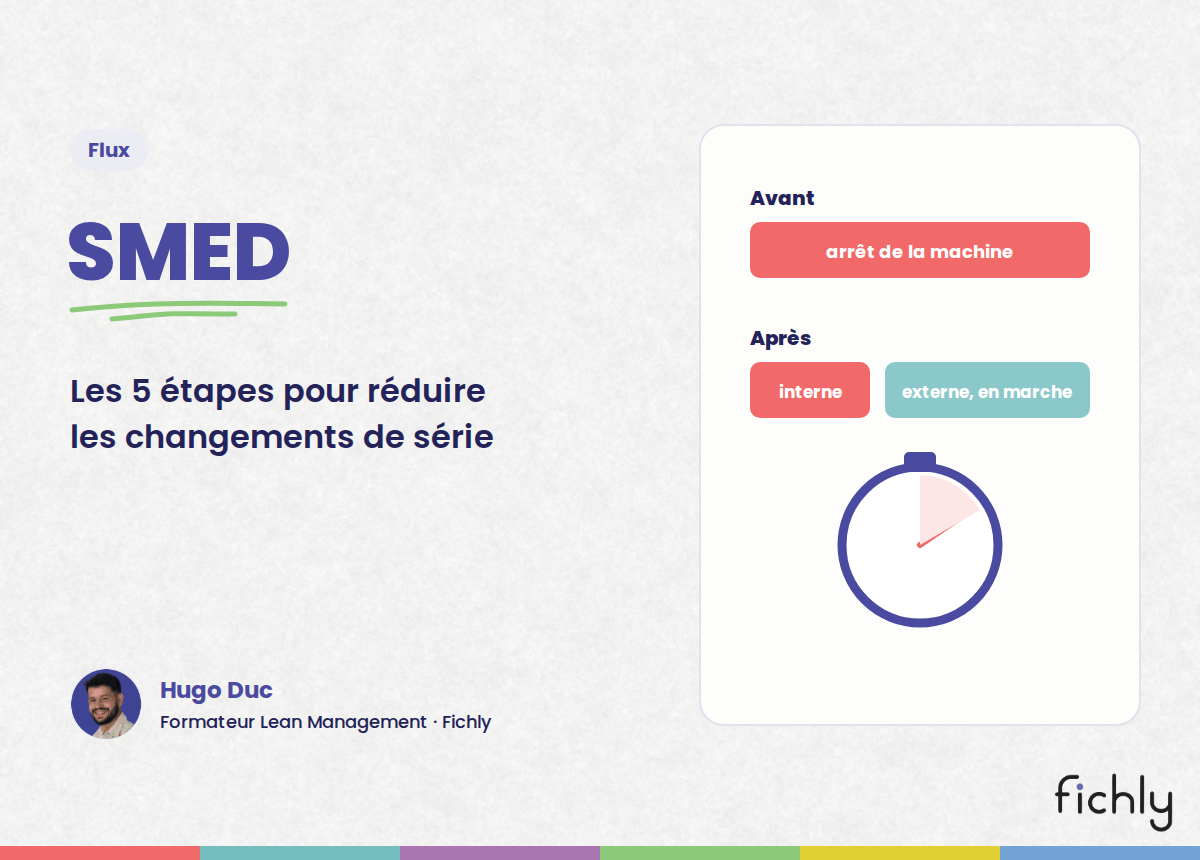
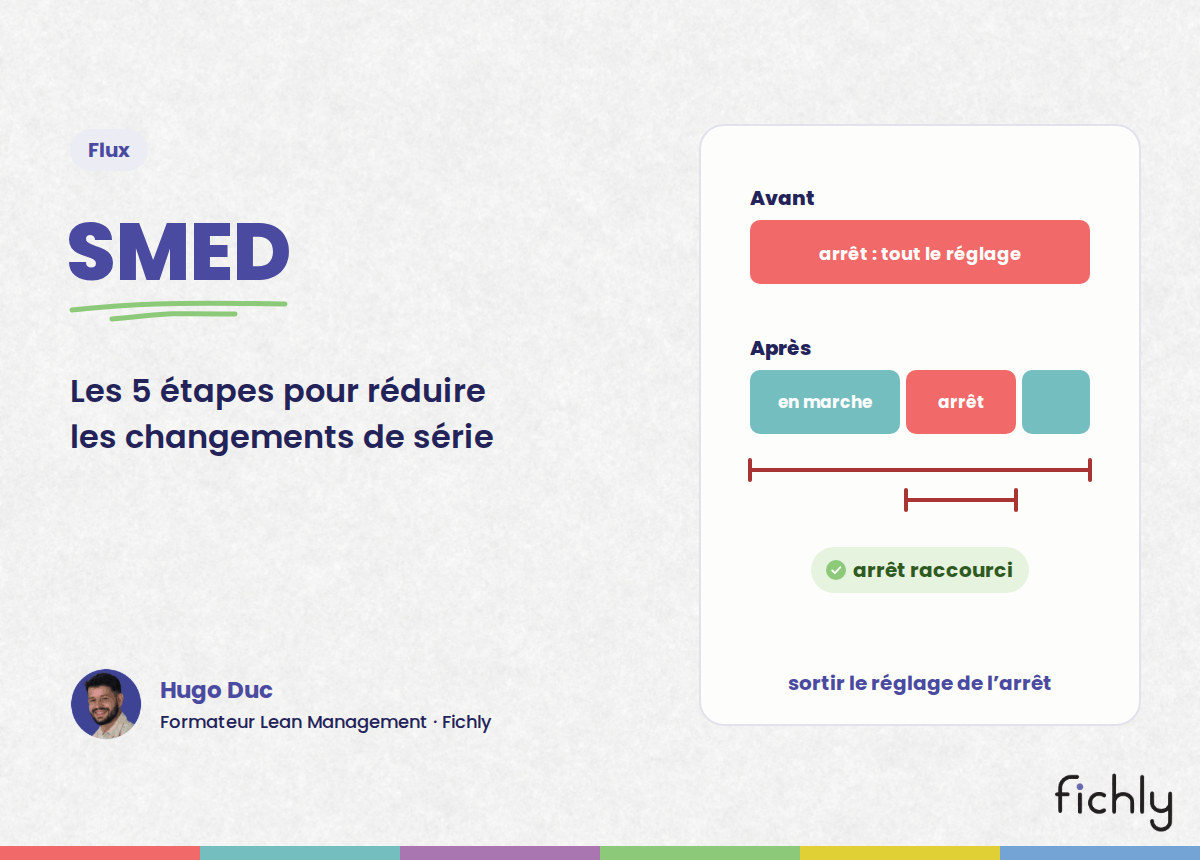
Couvertures : schémas repris (5S, TRS, SMED, TRS-TRG-TRE, maintenance, financement, métier) et légendes
Claude-Session: https://claude.ai/code/session_01Rdiqrwp9vyf6SMqf88o7NK

Changed region(s): [[0.6167, 0.3628, 0.925, 0.7256], [0.6167, 0.2721, 0.925, 0.3326], [0.6475, 0.786, 0.8942, 0.8163]]

diff --git a/articles-v2/couvertures/couvertures.js b/articles-v2/couvertures/couvertures.js
@@ -163,23 +163,39 @@
       text(p, 1090, base - tk - 10, 'takt', { size: 17, weight: 800, fill: C.blue, anchor: 'end' });
     },
     '5s'(p) {
-      const L = ['Trier', 'Ranger', 'Nettoyer', 'Standardiser', 'Faire durer'];
-      const cols = [C.red, C.teal, C.violet, C.green, C.lightBlue];
-      L.forEach((l, i) => {
-        const y = 175 + i * 92;
-        rect(p, 745, y, 350, 72, C.white, { stroke: C.line, 'stroke-width': 2, rx: 16 });
-        el('circle', { cx: 785, cy: y + 36, r: 22, fill: cols[i] }, p);
-        text(p, 785, y + 45, 'S', { size: 24, weight: 800, fill: C.white, anchor: 'middle' });
-        text(p, 825, y + 45, `${i + 1}. ${l}`, { size: 24, weight: 700, fill: C.ink });
+      // Tableau d'ombres : l'outil manquant se voit d'un regard
+      rect(p, 745, 175, 350, 300, C.pLav, { rx: 14 });
+      const shadow = { fill: C.white, stroke: C.ink, 'stroke-width': 2, 'stroke-dasharray': '6 5' };
+      const hammer = (x, o) => { rect(p, x - 8, 250, 16, 190, o.fill, { ...o, rx: 6 }); rect(p, x - 38, 205, 76, 44, o.fill, { ...o, rx: 8 }); };
+      const driver = (x, o) => { rect(p, x - 15, 205, 30, 92, o.fill, { ...o, rx: 12 }); rect(p, x - 5, 297, 10, 145, o.fill, { ...o, rx: 4 }); };
+      const wrench = (x, o) => { rect(p, x - 11, 250, 22, 190, o.fill, { ...o, rx: 8 }); el('circle', { cx: x, cy: 232, r: 30, ...o }, p); };
+      hammer(800, shadow); driver(920, shadow); wrench(1040, shadow);
+      hammer(800, { fill: C.blue }); wrench(1040, { fill: C.blue });
+      driver(920, { fill: 'none', stroke: C.red, 'stroke-width': 3, 'stroke-dasharray': '6 5' });
+      G.cross(p, 958, 215, 16);
+      ['Trier', 'Ranger', 'Nettoyer', 'Standardiser', 'Tenir'].forEach((l, i) => {
+        const x = 770 + i * 75;
+        el('circle', { cx: x, cy: 535, r: 22, fill: [C.red, C.teal, C.violet, C.green, C.lightBlue][i] }, p);
+        text(p, x, 543, 'S', { size: 22, weight: 800, fill: C.white, anchor: 'middle' });
+        text(p, x, i % 2 ? 604 : 582, l, { size: 14, weight: 700, fill: C.ink, anchor: 'middle' });
       });
-      text(p, CX, 690, 'l’anomalie se voit', { size: 20, weight: 700, fill: C.blue, anchor: 'middle' });
+      text(p, CX, 690, 'l’outil manquant se voit', { size: 20, weight: 700, fill: C.blue, anchor: 'middle' });
     },
     trs(p) {
-      const B = [['Temps d’ouverture', 340, C.line, C.ink], ['Disponibilité', 290, C.teal, C.white], ['Performance', 240, C.lightBlue, C.white], ['Qualité', 200, C.violet, C.white]];
-      B.forEach(([l, w, f, fg], i) => { rect(p, 750, 190 + i * 88, w, 62, f, { rx: 12 }); text(p, 768, 229 + i * 88, l, { size: 20, weight: 700, fill: fg }); });
-      arrow(p, 'M 960 560 L 960 585', C.blue); head(p, 960, 590, 90, C.blue);
-      rect(p, 750, 600, 200, 70, C.blue, { rx: 14 });
-      text(p, 850, 646, 'TRS', { size: 32, weight: 800, fill: C.white, anchor: 'middle' });
+      // Cascade : le temps d'ouverture perd trois fois, il reste le TRS
+      const X0 = 750, Wd = 340, rows = [['Temps d’ouverture', 340, C.pLav, C.ink], ['Disponibilité', 290, C.teal, C.white], ['Performance', 240, C.lightBlue, C.white], ['Qualité', 200, C.violet, C.white]];
+      rows.forEach(([l, w, f, fg], i) => {
+        const y = 180 + i * 84;
+        rect(p, X0, y, w, 56, f, { rx: 10 });
+        if (i) rect(p, X0 + w + 4, y, rows[i - 1][1] - w - 4, 56, C.pRed, { rx: 10 });
+        text(p, X0 + 16, y + 35, l, { size: 19, weight: 700, fill: fg });
+      });
+      line(p, X0 + 200, 520, X0 + 200, 560, C.blue, 3, { 'stroke-dasharray': '5 5' });
+      rect(p, X0, 560, 200, 66, C.blue, { rx: 12 });
+      text(p, X0 + 100, 603, 'TRS', { size: 30, weight: 800, fill: C.white, anchor: 'middle' });
+      rect(p, X0 + 222, 578, 26, 26, C.pRed, { rx: 6 });
+      text(p, X0 + 258, 598, 'pertes', { size: 18, weight: 700, fill: C.tRed });
+      text(p, CX, 690, 'trois pertes, un seul taux', { size: 20, weight: 700, fill: C.blue, anchor: 'middle' });
     },
     vsm(p) {
       [770, 885, 1000].forEach((x, i) => {
@@ -207,6 +223,7 @@
         rect(p, 760, 440 + i * 56, 320, 42, f, { rx: 21, stroke: C.line, 'stroke-width': 2 });
         text(p, 920, 468 + i * 56, l, { size: 19, weight: 800, fill: fg, anchor: 'middle' });
       });
+      text(p, CX, 702, 'quel niveau, pour quel besoin', { size: 20, weight: 700, fill: C.blue, anchor: 'middle' });
     },
     muda(p) {
       const L = ['Surproduction', 'Attentes', 'Transports', 'Traitements', 'Stocks', 'Mouvements', 'Défauts', 'Compétences'];
@@ -216,25 +233,41 @@
         G.badgeNum(p, x + 30, y + 32, i + 1, 17);
         fit(text(p, x + 14, y + 80, l, { size: 17, weight: 700, fill: C.ink }), x + 162, `muda ${l}`);
       });
+      text(p, CX, 690, 'huit façons de perdre du temps', { size: 20, weight: 700, fill: C.blue, anchor: 'middle' });
     },
     qualiopi(p) {
       el('path', { d: `M ${CX} 180 L ${CX + 130} 225 L ${CX + 130} 340 Q ${CX + 130} 440 ${CX} 495 Q ${CX - 130} 440 ${CX - 130} 340 L ${CX - 130} 225 Z`, fill: C.blue }, p);
       G.check(p, CX, 335, 58, C.green);
-      ['Processus certifié', 'Indicateurs suivis', 'Financements ouverts'].forEach((l, i) => G.pill(p, CX, 545 + i * 50, l, { size: 18, h: 38, bg: C.pGreen, fg: C.tGreen, icon: 'check', anchor: 'middle' }));
+      ['Processus certifié', 'Indicateurs suivis', 'Financements ouverts'].forEach((l, i) => G.pill(p, CX, 535 + i * 48, l, { size: 18, h: 38, bg: C.pGreen, fg: C.tGreen, icon: 'check', anchor: 'middle' }));
+      text(p, CX, 702, 'ce que le label garantit', { size: 20, weight: 700, fill: C.blue, anchor: 'middle' });
     },
     financement(p) {
-      [0, 1, 2, 3].forEach(i => { el('ellipse', { cx: CX, cy: 420 - i * 34, rx: 82, ry: 26, fill: C.yellow, stroke: C.tYellow, 'stroke-width': 3 }, p); });
-      text(p, CX, 330, '€', { size: 40, weight: 800, fill: C.tYellow, anchor: 'middle' });
-      [['CPF', C.teal], ['OPCO', C.violet], ['France Travail', C.lightBlue], ['Plan de développement', C.green]].forEach(([l, f], i) =>
-        G.pill(p, CX, 500 + i * 48, l, { size: 18, h: 38, bg: f, fg: C.white, anchor: 'middle' }));
+      // Le coût de la formation, découpé entre les financeurs
+      el('circle', { cx: CX, cy: 235, r: 50, fill: C.yellow, stroke: C.tYellow, 'stroke-width': 4 }, p);
+      text(p, CX, 254, '€', { size: 52, weight: 800, fill: C.white, anchor: 'middle' });
+      text(p, 750, 335, 'Coût de la formation', { size: 18, weight: 700, fill: C.ink });
+      [['CPF', 150, C.teal, C.white], ['OPCO', 115, C.violet, C.white], ['reste', 75, C.pLav, C.ink]].reduce((x, [l, w, f, fg]) => {
+        rect(p, x, 350, w - 4, 70, f, { rx: 10 });
+        text(p, x + (w - 4) / 2, 393, l, { size: 19, weight: 800, fill: fg, anchor: 'middle' });
+        return x + w;
+      }, 750);
+      text(p, 750, 480, 'Selon votre situation :', { size: 18, weight: 700, fill: C.ink });
+      G.pill(p, 750, 520, 'France Travail', { size: 18, h: 40, bg: C.lightBlue, fg: C.white });
+      G.pill(p, 750, 572, 'Plan de développement', { size: 18, h: 40, bg: C.green, fg: C.white });
+      text(p, CX, 690, 'qui finance quoi', { size: 20, weight: 700, fill: C.blue, anchor: 'middle' });
     },
     metier(p) {
-      person(p, CX, 300, C.blue, 2.2);
-      rect(p, CX - 40, 360, 80, 54, C.yellow, { rx: 8, stroke: C.tYellow, 'stroke-width': 3 });
-      rect(p, CX - 16, 350, 32, 14, 'none', { stroke: C.tYellow, 'stroke-width': 3, rx: 4 });
+      // Le responsable devant son tableau de progrès
+      rect(p, 850, 185, 240, 230, C.white, { stroke: C.blue, 'stroke-width': 4, rx: 14 });
+      line(p, 875, 375, 1065, 375, C.ink, 3); line(p, 875, 375, 875, 215, C.ink, 3);
+      line(p, 875, 250, 1065, 250, C.green, 3, { 'stroke-dasharray': '7 6' });
+      arrow(p, 'M 885 360 L 925 340 L 960 345 L 995 300 L 1030 285 L 1055 262', C.blue, 5);
+      el('circle', { cx: 1055, cy: 262, r: 7, fill: C.blue }, p);
+      person(p, 780, 400, C.blue, 1.6);
+      rect(p, 745, 440, 70, 48, C.yellow, { rx: 8, stroke: C.tYellow, 'stroke-width': 3 });
       ['Mesurer', 'Animer', 'Former', 'Standardiser'].forEach((l, i) =>
-        G.pill(p, i % 2 ? 1020 : 820, 480 + Math.floor(i / 2) * 60, l, { size: 19, h: 42, bg: C.pLav, fg: C.blue, anchor: 'middle' }));
-      text(p, CX, 690, 'le métier au quotidien', { size: 20, weight: 700, fill: C.blue, anchor: 'middle' });
+        G.pill(p, i % 2 ? 1010 : 830, 545 + Math.floor(i / 2) * 54, l, { size: 18, h: 40, bg: C.pLav, fg: C.blue, anchor: 'middle' }));
+      text(p, CX, 700, 'piloter le progrès au quotidien', { size: 20, weight: 700, fill: C.blue, anchor: 'middle' });
     },
     'green-belt'(p) {
       rect(p, 745, 280, 350, 70, C.green, { rx: 14 });
@@ -255,6 +288,7 @@
       line(p, 745, 640, 1095, 520, C.blue, 5);
       el('path', { d: 'M 900 588 L 950 570 L 950 540 Z', fill: C.yellow, stroke: C.tYellow, 'stroke-width': 2 }, p);
       text(p, 1000, 610, 'standard', { size: 16, weight: 800, fill: C.tYellow, anchor: 'middle' });
+      text(p, CX, 702, 'chaque tour calé par un standard', { size: 20, weight: 700, fill: C.blue, anchor: 'middle' });
     },
     dmaic(p) {
       [['D', 'Définir', C.blue], ['M', 'Mesurer', C.teal], ['A', 'Analyser', C.violet], ['I', 'Innover', C.green], ['C', 'Contrôler', C.red]].forEach(([ch, l, f], i) => {
@@ -263,28 +297,38 @@
         text(p, 830, y + 50, ch, { size: 32, weight: 800, fill: C.white, anchor: 'middle' });
         text(p, 870, y + 47, l, { size: 22, weight: 700, fill: C.white });
       });
+      text(p, CX, 702, 'cinq étapes, dans l’ordre', { size: 20, weight: 700, fill: C.blue, anchor: 'middle' });
     },
     smed(p) {
-      text(p, 750, 205, 'Avant', { size: 20, weight: 800, fill: C.ink });
-      rect(p, 750, 222, 340, 56, C.red, { rx: 10 }); text(p, 920, 258, 'arrêt de la machine', { size: 18, weight: 700, fill: C.white, anchor: 'middle' });
-      text(p, 750, 345, 'Après', { size: 20, weight: 800, fill: C.ink });
-      rect(p, 750, 362, 120, 56, C.red, { rx: 10 }); text(p, 810, 398, 'interne', { size: 17, weight: 700, fill: C.white, anchor: 'middle' });
-      rect(p, 885, 362, 205, 56, C.teal, { rx: 10, opacity: 0.85 }); text(p, 987, 398, 'externe, en marche', { size: 17, weight: 700, fill: C.white, anchor: 'middle' });
-      el('circle', { cx: CX, cy: 545, r: 78, fill: C.white, stroke: C.blue, 'stroke-width': 9 }, p);
-      rect(p, CX - 16, 452, 32, 20, C.blue, { rx: 5 });
-      arrow(p, `M ${CX} 545 L ${CX + 44} 515`, C.red, 6);
-      el('path', { d: `M ${CX} 545 L ${CX} 475 A 70 70 0 0 1 ${CX + 60} 510 Z`, fill: C.pRed }, p);
+      // Avant / après : le réglage préparé machine en marche raccourcit l'arrêt
+      const X0 = 750;
+      text(p, X0, 205, 'Avant', { size: 20, weight: 800, fill: C.ink });
+      rect(p, X0, 220, 340, 64, C.red, { rx: 10 });
+      text(p, X0 + 170, 260, 'arrêt : tout le réglage', { size: 18, weight: 700, fill: C.white, anchor: 'middle' });
+      text(p, X0, 355, 'Après', { size: 20, weight: 800, fill: C.ink });
+      rect(p, X0, 370, 150, 64, C.teal, { rx: 10 });
+      text(p, X0 + 75, 408, 'en marche', { size: 17, weight: 700, fill: C.white, anchor: 'middle' });
+      rect(p, X0 + 156, 370, 110, 64, C.red, { rx: 10 });
+      text(p, X0 + 211, 408, 'arrêt', { size: 17, weight: 700, fill: C.white, anchor: 'middle' });
+      rect(p, X0 + 272, 370, 68, 64, C.teal, { rx: 10 });
+      // Durées d'arrêt comparées
+      line(p, X0, 470, X0 + 340, 470, C.tRed, 4);
+      line(p, X0 + 156, 500, X0 + 266, 500, C.tRed, 4);
+      [[X0, 470], [X0 + 340, 470], [X0 + 156, 500], [X0 + 266, 500]].forEach(([x, y]) => line(p, x, y - 10, x, y + 10, C.tRed, 4));
+      G.pill(p, CX, 570, 'arrêt raccourci', { size: 20, h: 46, bg: C.pGreen, fg: C.tGreen, icon: 'check', anchor: 'middle' });
+      text(p, CX, 690, 'sortir le réglage de l’arrêt', { size: 20, weight: 700, fill: C.blue, anchor: 'middle' });
     },
     'trs-trg-tre'(p) {
-      [['TRS', 0.55, C.blue], ['TRG', 0.68, C.teal], ['TRE', 0.42, C.violet]].forEach(([l, v, f], i) => {
-        const cx = 920, cy = 285 + i * 160, r = 62, x0 = cx - 120;
-        el('path', { d: `M ${x0 - r} ${cy} A ${r} ${r} 0 0 1 ${x0 + r} ${cy}`, fill: 'none', stroke: C.line, 'stroke-width': 16, 'stroke-linecap': 'round' }, p);
-        const a = Math.PI * (1 - v);
-        el('path', { d: `M ${x0 - r} ${cy} A ${r} ${r} 0 0 1 ${x0 + r * Math.cos(a)} ${cy - r * Math.sin(a)}`, fill: 'none', stroke: f, 'stroke-width': 16, 'stroke-linecap': 'round' }, p);
-        line(p, x0, cy, x0 + (r - 18) * Math.cos(a), cy - (r - 18) * Math.sin(a), C.ink, 5);
-        text(p, cx - 10, cy - 8, l, { size: 34, weight: 800, fill: f });
-        rect(p, cx - 10, cy + 6, 160, 10, C.line, { rx: 5 });
+      // Même temps utile, trois dénominateurs différents
+      [['TRS', 'sur le temps requis', 230, C.blue], ['TRG', 'sur le temps d’ouverture', 290, C.teal], ['TRE', 'sur le temps total', 340, C.violet]].forEach(([k, l, w, f], i) => {
+        const y = 215 + i * 140;
+        text(p, 750, y, k, { size: 30, weight: 800, fill: f });
+        text(p, 830, y - 2, l, { size: 17, weight: 600, fill: C.ink });
+        rect(p, 750, y + 18, w, 54, C.pLav, { rx: 10 });
+        rect(p, 750, y + 18, 150, 54, C.green, { rx: 10 });
+        text(p, 825, y + 52, 'utile', { size: 18, weight: 800, fill: C.white, anchor: 'middle' });
       });
+      text(p, CX, 690, 'même temps utile, trois bases', { size: 20, weight: 700, fill: C.blue, anchor: 'middle' });
     },
     'cinq-pourquoi'(p) {
       for (let i = 0; i < 5; i++) {
@@ -297,9 +341,26 @@
       arrow(p, 'M 990 595 L 990 560', C.red, 4);
     },
     'types-maintenance'(p) {
-      el('path', { d: `M 870 210 a 46 46 0 1 0 60 60 l 120 120 a 22 22 0 0 0 30 -30 l -120 -120 a 46 46 0 0 0 -60 -60 l 26 26 l -8 30 l -30 8 Z`, fill: C.blue }, p);
-      [['Corrective', C.red], ['Préventive systématique', C.teal], ['Conditionnelle', C.violet], ['Prévisionnelle', C.green]].forEach(([l, f], i) =>
-        G.pill(p, CX, 480 + i * 52, l, { size: 19, h: 42, bg: f, fg: C.white, anchor: 'middle' }));
+      // L'état d'un équipement dans le temps et les quatre déclencheurs
+      const P0 = [760, 225], P1 = [905, 230], P2 = [1000, 300], P3 = [1075, 520];
+      const bez = t => [0, 1].map(k => (1 - t) ** 3 * P0[k] + 3 * (1 - t) ** 2 * t * P1[k] + 3 * (1 - t) * t * t * P2[k] + t ** 3 * P3[k]);
+      line(p, 750, 540, 1095, 540, C.ink, 3); line(p, 750, 540, 750, 200, C.ink, 3);
+      text(p, 758, 200, 'état', { size: 15, weight: 700, fill: C.ink });
+      el('path', { d: `M ${P0} C ${P1} ${P2} ${P3}`, fill: 'none', stroke: C.blue, 'stroke-width': 5, 'stroke-linecap': 'round' }, p);
+      const ys = 430;
+      line(p, 750, ys, 1095, ys, C.violet, 3, { 'stroke-dasharray': '8 6' });
+      let tc = 0; for (let t = 0; t <= 1; t += 0.002) if (bez(t)[1] >= ys) { tc = t; break; }
+      const [cx, cy] = bez(tc), [px, py] = bez(tc - 0.22);
+      el('circle', { cx, cy, r: 9, fill: C.violet }, p);
+      arrow(p, `M ${px} ${py} L ${px + 70} ${py + 95}`, C.green, 3); el('circle', { cx: px, cy: py, r: 9, fill: C.green }, p);
+      [800, 880, 960, 1040].forEach(x => el('path', { d: `M ${x - 9} 556 L ${x + 9} 556 L ${x} 541 Z`, fill: C.teal }, p));
+      G.cross(p, 1075, 520, 14);
+      [['Corrective', C.red], ['Systématique', C.teal], ['Conditionnelle', C.violet], ['Prévisionnelle', C.green]].forEach(([l, f], i) => {
+        const x = i % 2 ? 935 : 760, y = 600 + Math.floor(i / 2) * 36;
+        el('circle', { cx: x + 8, cy: y - 6, r: 8, fill: f }, p);
+        text(p, x + 24, y, l, { size: 17, weight: 700, fill: C.ink });
+      });
+      text(p, CX, 702, 'quatre façons de déclencher', { size: 20, weight: 700, fill: C.blue, anchor: 'middle' });
     },
     'mtbf-mttr'(p) {
       const S = [[750, 120, 1], [870, 40, 0], [910, 100, 1], [1010, 30, 0], [1040, 55, 1]];
@@ -313,6 +374,7 @@
       brace(750, 870, 320, 'MTBF', C.tGreen, true);
       brace(870, 910, 410, 'MTTR', C.tRed, false);
       G.pill(p, CX, 600, 'Disponibilité', { size: 22, h: 50, bg: C.blue, fg: C.white, anchor: 'middle' });
+      text(p, CX, 690, 'deux temps, une disponibilité', { size: 20, weight: 700, fill: C.blue, anchor: 'middle' });
     },
     tpm(p) {
       el('path', { d: `M 740 300 L ${CX} 190 L 1100 300 Z`, fill: C.blue }, p);
@@ -345,6 +407,7 @@
       person(p, CX, 470, C.lightBlue, 1.1);
       rect(p, 740, 580, 360, 56, C.ink, { rx: 10 });
       text(p, CX, 617, 'Standards et kaizen', { size: 22, weight: 800, fill: C.white, anchor: 'middle' });
+      text(p, CX, 700, 'la maison du Lean', { size: 20, weight: 700, fill: C.blue, anchor: 'middle' });
     },
   };
 
